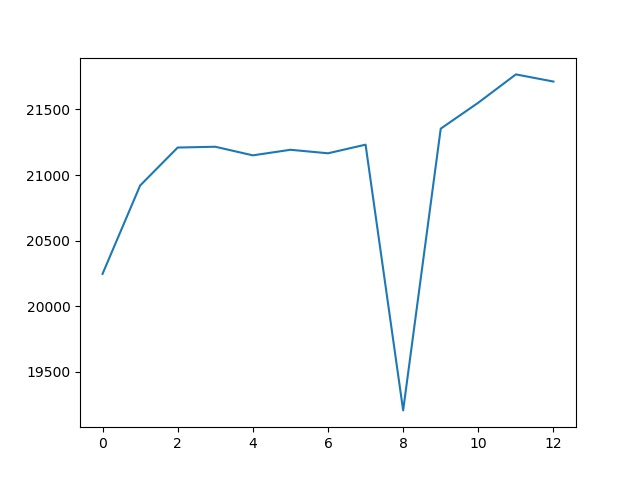
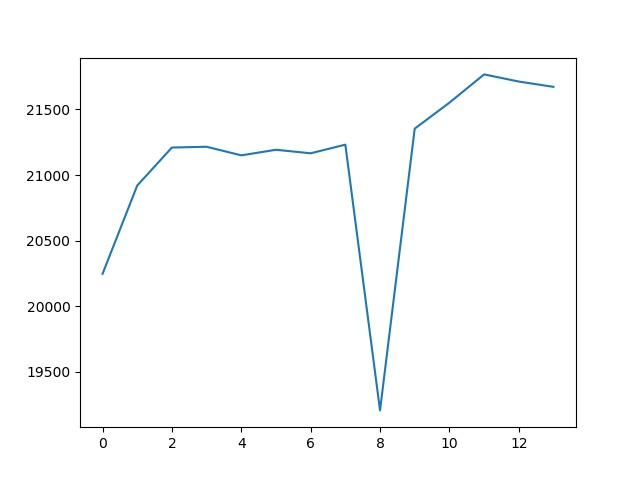
'auto'

diff --git a/README.md b/README.md
@@ -1,5 +1,5 @@
 Frizider live: 5
-21713.150000000005 
+21672.616666666665 
 0
 Temperatura:
 
